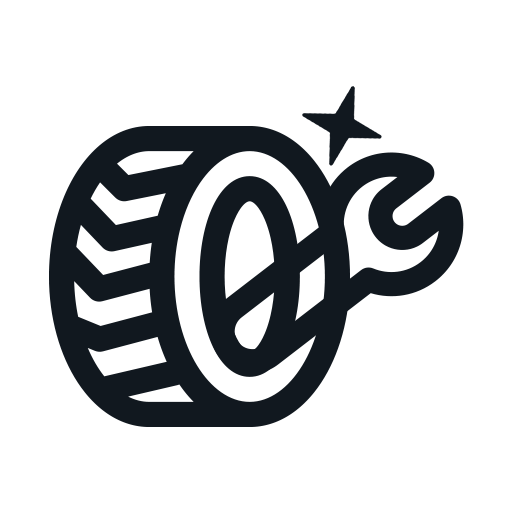
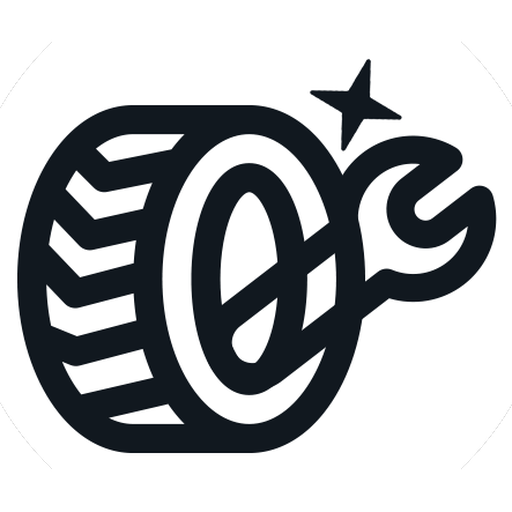
v5.1

Changed region(s): [[0.0312, 0.125, 0.9688, 0.9062]]

diff --git a/app/v/[slug]/VehicleDashboard.tsx b/app/v/[slug]/VehicleDashboard.tsx
@@ -330,7 +330,7 @@ export default function VehicleDashboard({
   const [editServiceForm, setEditServiceForm] = useState({ date: "", odometer: "", cost: "", note: "" });
 
   const [showVehicleDetailsForm, setShowVehicleDetailsForm] = useState(false);
-  const [vehicleDetailsDraft, setVehicleDetailsDraft] = useState({ plate: "", vin: "" });
+  const [vehicleDetailsDraft, setVehicleDetailsDraft] = useState({ plate: "" });
 
   const [statsFilters, setStatsFilters] = useState({ fuel: true, service: false, trip: false });
 
@@ -766,10 +766,10 @@ export default function VehicleDashboard({
     const res = await fetch(`/api/v/${slug}/details`, {
       method: "PATCH",
       headers: { "Content-Type": "application/json" },
-      body: JSON.stringify({ plateNumber: vehicleDetailsDraft.plate.trim(), vin: vehicleDetailsDraft.vin.trim() }),
+      body: JSON.stringify({ plateNumber: vehicleDetailsDraft.plate.trim() }),
     });
     if (res.ok) {
-      setVehicle((v) => ({ ...v, plateNumber: vehicleDetailsDraft.plate.trim(), vin: vehicleDetailsDraft.vin.trim() }));
+      setVehicle((v) => ({ ...v, plateNumber: vehicleDetailsDraft.plate.trim() }));
       setShowVehicleDetailsForm(false);
       playSuccess();
     }
@@ -817,7 +817,18 @@ export default function VehicleDashboard({
   }
 
   return (
-    <div style={{ background: themeBg, color: "var(--text)", minHeight: "100vh", position: "relative" }}>
+    <div
+      style={{ background: themeBg, color: "var(--text)", minHeight: "100vh", position: "relative" }}
+      onTouchStart={(e) => onSwipeStart(e.touches[0].clientX, e.touches[0].clientY, swipeRef.current)}
+      onTouchEnd={(e) => {
+        const dx = e.changedTouches[0].clientX - swipeRef.current.x;
+        const dy = e.changedTouches[0].clientY - swipeRef.current.y;
+        if (Math.abs(dx) < 55 || Math.abs(dx) < Math.abs(dy) * 1.3) return;
+        const idx = TAB_ORDER.indexOf(viewMode);
+        if (dx < 0) goTab(idx + 1);
+        else goTab(idx - 1);
+      }}
+    >
       <div style={{ maxWidth: 480, margin: "0 auto", padding: "28px 18px 100px", position: "relative", zIndex: 1, ["--accent" as any]: themeAccent }}>
         <div className="animate-fade" style={{ display: "flex", alignItems: "center", justifyContent: "space-between", marginBottom: 14, padding: "0 4px", position: "relative" }}>
           <div style={{ display: "flex", alignItems: "center", gap: 10 }}>
@@ -867,19 +878,7 @@ export default function VehicleDashboard({
           </div>
         </div>
 
-        <div
-          key={viewMode}
-          className="animate-fade"
-          onTouchStart={(e) => onSwipeStart(e.touches[0].clientX, e.touches[0].clientY, swipeRef.current)}
-          onTouchEnd={(e) => {
-            const dx = e.changedTouches[0].clientX - swipeRef.current.x;
-            const dy = e.changedTouches[0].clientY - swipeRef.current.y;
-            if (Math.abs(dx) < 55 || Math.abs(dx) < Math.abs(dy) * 1.3) return;
-            const idx = TAB_ORDER.indexOf(viewMode);
-            if (dx < 0) goTab(idx + 1);
-            else goTab(idx - 1);
-          }}
-        >
+        <div key={viewMode} className="animate-fade">
           {viewMode === "fuel" && (
             <>
               {!loggedThisVisit && logStep === 1 && (
@@ -1395,32 +1394,27 @@ export default function VehicleDashboard({
               <div className="animate-in card" style={{ padding: "18px 18px 20px", marginBottom: 14 }}>
                 <div style={{ display: "flex", alignItems: "center", justifyContent: "space-between", marginBottom: 12 }}>
                   <div className="display" style={{ fontSize: 15, fontWeight: 700 }}>Στοιχεία Οχήματος</div>
-                  {(vehicle.plateNumber || vehicle.vin) && !showVehicleDetailsForm && (
+                  {vehicle.plateNumber && !showVehicleDetailsForm && (
                     <button
-                      onClick={() => { setVehicleDetailsDraft({ plate: vehicle.plateNumber || "", vin: vehicle.vin || "" }); setShowVehicleDetailsForm(true); }}
+                      onClick={() => { setVehicleDetailsDraft({ plate: vehicle.plateNumber || "" }); setShowVehicleDetailsForm(true); }}
                       style={{ background: "none", border: "none", color: "var(--muted)", padding: 4 }}
                     >
                       <Pencil size={14} />
                     </button>
                   )}
                 </div>
-                {!(vehicle.plateNumber || vehicle.vin) || showVehicleDetailsForm ? (
+                {!vehicle.plateNumber || showVehicleDetailsForm ? (
                   <>
-                    <div style={{ fontSize: 11.5, color: "var(--muted)", opacity: 0.8, marginBottom: 12 }}>Αυτά δεν αλλάζουν συχνά - τα καταχωρείς μία φορά.</div>
-                    <div style={{ marginBottom: 10 }}>
+                    <div style={{ fontSize: 11.5, color: "var(--muted)", opacity: 0.8, marginBottom: 12 }}>Αυτό δεν αλλάζει συχνά - το καταχωρείς μία φορά.</div>
+                    <div style={{ marginBottom: 14 }}>
                       <div style={{ fontSize: 11, color: "var(--muted)", marginBottom: 4 }}>ΠΙΝΑΚΙΔΑ</div>
                       <input className="pill-input" placeholder="π.χ. ΙΖΗ-1234" value={vehicleDetailsDraft.plate} onChange={(e) => setVehicleDetailsDraft({ ...vehicleDetailsDraft, plate: e.target.value })} />
-                    </div>
-                    <div style={{ marginBottom: 14 }}>
-                      <div style={{ fontSize: 11, color: "var(--muted)", marginBottom: 4 }}>VIN (αριθμός πλαισίου, προαιρετικό)</div>
-                      <input className="pill-input" placeholder="προαιρετικό" value={vehicleDetailsDraft.vin} onChange={(e) => setVehicleDetailsDraft({ ...vehicleDetailsDraft, vin: e.target.value })} />
                     </div>
                     <button className="tap" onClick={saveVehicleDetails} style={{ width: "100%", background: themeAccent, color: "#08090a", border: "none", borderRadius: 999, fontSize: 14, fontWeight: 700, padding: "12px 0" }}>Αποθήκευση</button>
                   </>
                 ) : (
                   <div style={{ fontSize: 13.5, color: "var(--text)", lineHeight: 1.9 }}>
                     {vehicle.plateNumber && <div>Πινακίδα: <b>{vehicle.plateNumber}</b></div>}
-                    {vehicle.vin && <div>VIN: <b>{vehicle.vin}</b></div>}
                   </div>
                 )}
               </div>
@@ -1543,37 +1537,41 @@ export default function VehicleDashboard({
       </div>
 
       {vehicle && showNotifications && (
-        <div
-          ref={notificationDropdownRef}
-          className="animate-fade no-scrollbar"
-          style={{ position: "fixed", top: 74, right: 18, width: 260, maxHeight: 280, overflowY: "auto", padding: "8px 0", zIndex: 9999, background: "#131417", borderRadius: 16, boxShadow: "0 10px 30px rgba(0,0,0,0.6)" }}
-        >
-          {reminderNotifications.length === 0 ? (
-            <div style={{ display: "flex", flexDirection: "column", alignItems: "center", gap: 8, padding: "22px 16px" }}>
-              <span style={{ width: 30, height: 30, borderRadius: 99, background: "rgba(78,158,118,0.15)", display: "flex", alignItems: "center", justifyContent: "center" }}>
-                <Check size={15} color="#4e9e76" />
-              </span>
-              <div style={{ fontSize: 13, color: "var(--muted)" }}>Όλα καλά!</div>
-            </div>
-          ) : (
-            <>
-              <div style={{ padding: "6px 16px 10px", fontSize: 11, letterSpacing: 0.5, textTransform: "uppercase", color: "var(--muted)", fontWeight: 600 }}>
-                {reminderNotifications.length} {reminderNotifications.length === 1 ? "ειδοποίηση" : "ειδοποιήσεις"}
-              </div>
-              {reminderNotifications.map((n) => (
-                <button
-                  key={n.id}
-                  onClick={() => { playTap(); setViewMode(n.tab); setShowNotifications(false); }}
-                  style={{ display: "flex", alignItems: "center", gap: 10, width: "100%", background: "none", border: "none", textAlign: "left", padding: "10px 16px", borderTop: "1px solid var(--hairline)" }}
-                >
-                  <span style={{ width: 26, height: 26, borderRadius: 8, background: `${n.color}22`, display: "flex", alignItems: "center", justifyContent: "center", flexShrink: 0 }}>
-                    <n.Icon size={13} color={n.color} />
+        <div style={{ position: "fixed", left: 0, right: 0, top: 74, display: "flex", justifyContent: "center", zIndex: 9999, pointerEvents: "none" }}>
+          <div style={{ maxWidth: 480, width: "100%", position: "relative", pointerEvents: "none" }}>
+            <div
+              ref={notificationDropdownRef}
+              className="animate-fade no-scrollbar"
+              style={{ position: "absolute", top: 0, right: 18, width: 260, maxHeight: 280, overflowY: "auto", padding: "8px 0", background: "#131417", borderRadius: 16, boxShadow: "0 10px 30px rgba(0,0,0,0.6)", pointerEvents: "auto" }}
+            >
+              {reminderNotifications.length === 0 ? (
+                <div style={{ display: "flex", flexDirection: "column", alignItems: "center", gap: 8, padding: "22px 16px" }}>
+                  <span style={{ width: 30, height: 30, borderRadius: 99, background: "rgba(78,158,118,0.15)", display: "flex", alignItems: "center", justifyContent: "center" }}>
+                    <Check size={15} color="#4e9e76" />
                   </span>
-                  <div style={{ fontSize: 12.5, color: "var(--text)", lineHeight: 1.4 }}>{n.text}</div>
-                </button>
-              ))}
-            </>
-          )}
+                  <div style={{ fontSize: 13, color: "var(--muted)" }}>Όλα καλά!</div>
+                </div>
+              ) : (
+                <>
+                  <div style={{ padding: "6px 16px 10px", fontSize: 11, letterSpacing: 0.5, textTransform: "uppercase", color: "var(--muted)", fontWeight: 600 }}>
+                    {reminderNotifications.length} {reminderNotifications.length === 1 ? "ειδοποίηση" : "ειδοποιήσεις"}
+                  </div>
+                  {reminderNotifications.map((n) => (
+                    <button
+                      key={n.id}
+                      onClick={() => { playTap(); setViewMode(n.tab); setShowNotifications(false); }}
+                      style={{ display: "flex", alignItems: "center", gap: 10, width: "100%", background: "none", border: "none", textAlign: "left", padding: "10px 16px", borderTop: "1px solid var(--hairline)" }}
+                    >
+                      <span style={{ width: 26, height: 26, borderRadius: 8, background: `${n.color}22`, display: "flex", alignItems: "center", justifyContent: "center", flexShrink: 0 }}>
+                        <n.Icon size={13} color={n.color} />
+                      </span>
+                      <div style={{ fontSize: 12.5, color: "var(--text)", lineHeight: 1.4 }}>{n.text}</div>
+                    </button>
+                  ))}
+                </>
+              )}
+            </div>
+          </div>
         </div>
       )}
 
